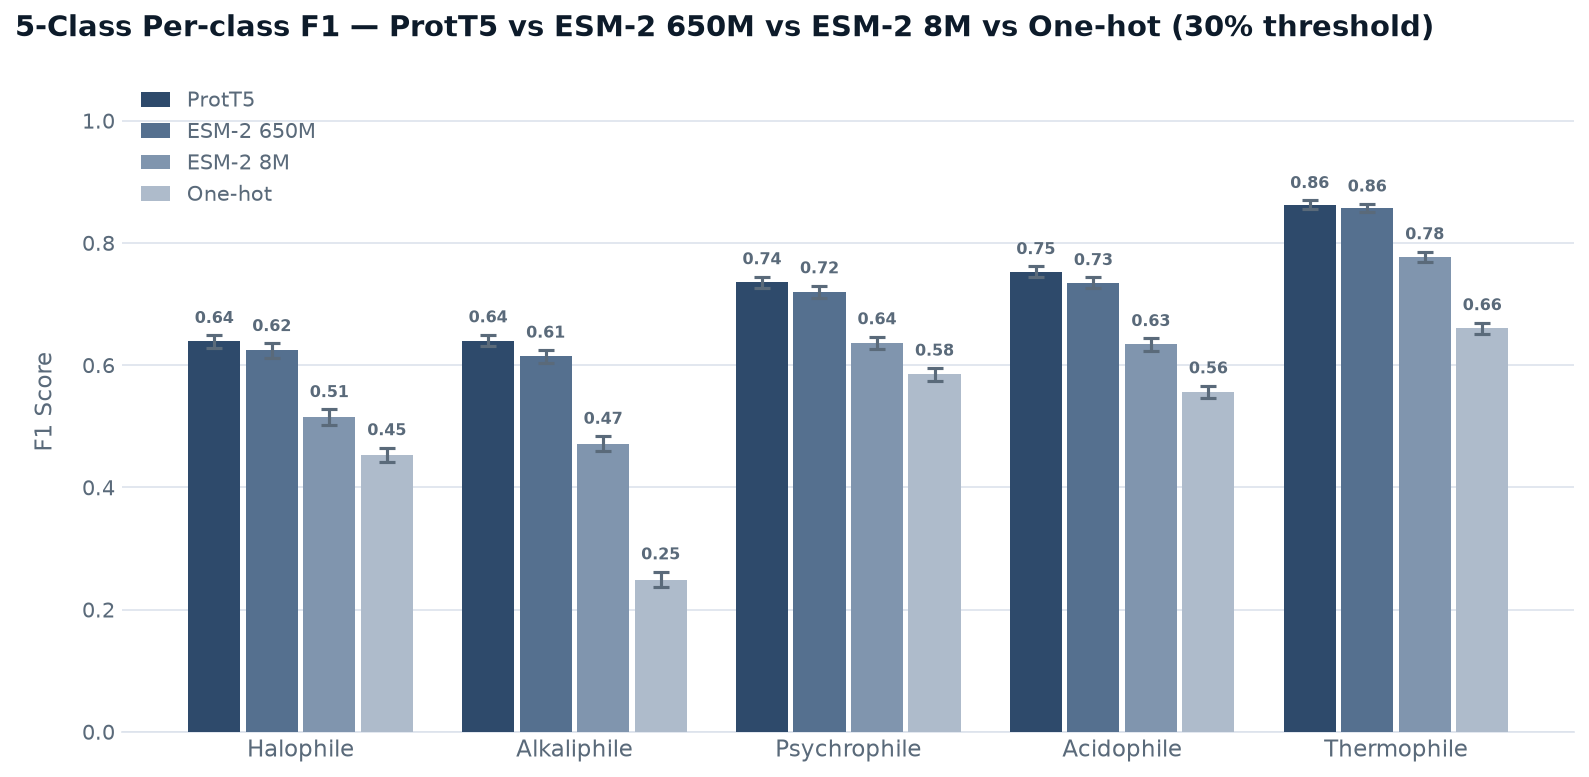
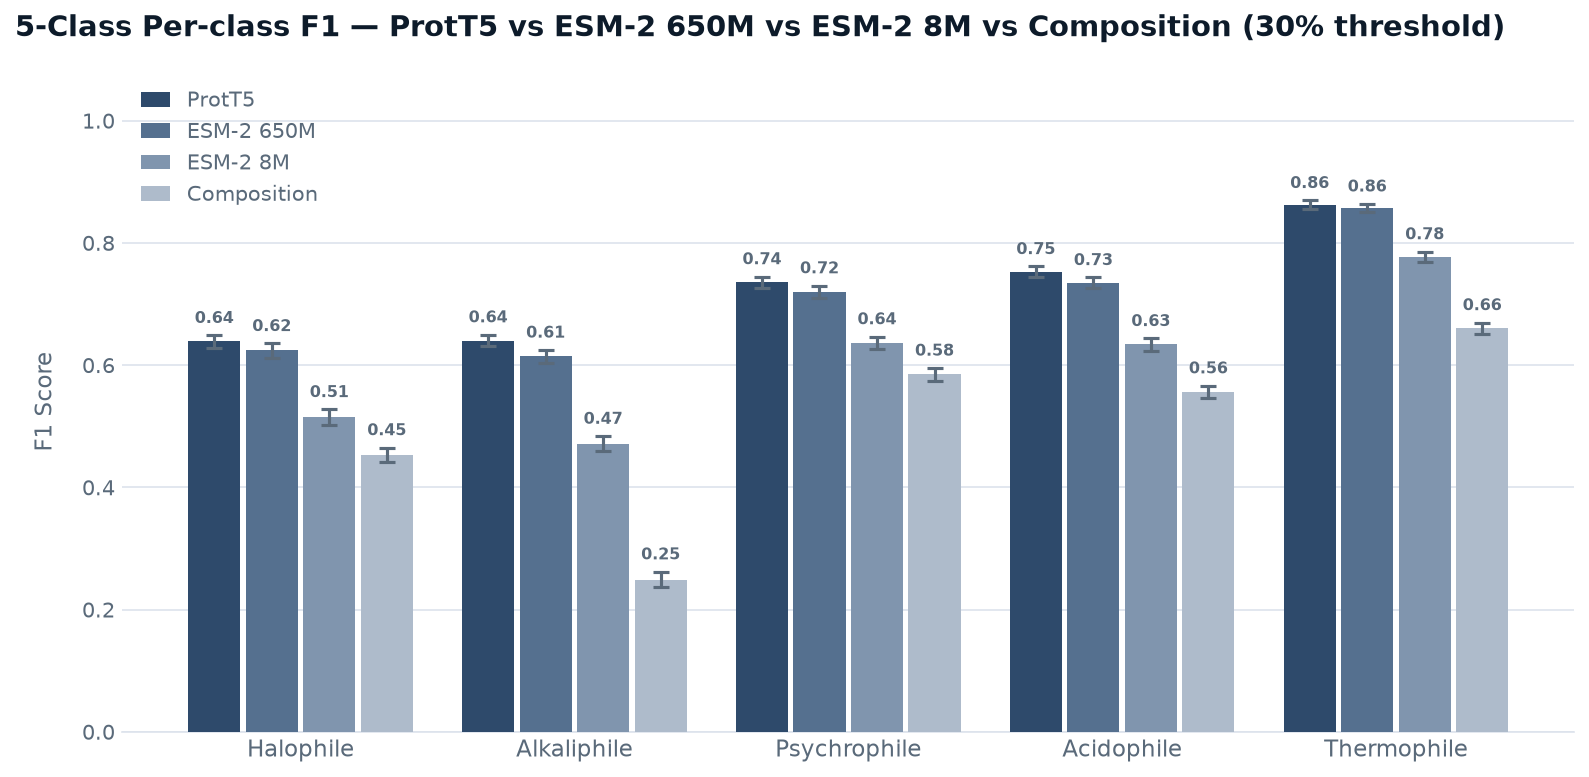
Label the amino acid composition baseline as Composition in all plots

Changed region(s): [[0.6476, 0.0, 0.9559, 0.0618], [0.1233, 0.2471, 0.185, 0.278]]

diff --git a/scripts/plotting/generate_comparison_plots.py b/scripts/plotting/generate_comparison_plots.py
@@ -64,7 +64,7 @@ err_kw  = dict(fmt='none', elinewidth=1.5, capsize=4, capthick=1.5, ecolor=DGRAY
 herr_kw = dict(fmt='none', elinewidth=1.4, capsize=4, capthick=1.4, ecolor=DGRAY, zorder=5)
 
 MODELS = [('ProtT5', prot, EMBEDDER_COLORS['prott5']), ('ESM-2 650M', esm2, EMBEDDER_COLORS['esm2_650m']),
-          ('ESM-2 8M', esm2_8m, EMBEDDER_COLORS['esm2_8m']), ('One-hot', onehot, EMBEDDER_COLORS['onehot'])]
+          ('ESM-2 8M', esm2_8m, EMBEDDER_COLORS['esm2_8m']), ('Composition', onehot, EMBEDDER_COLORS['onehot'])]
 W = 0.19
 OFFSETS = [(i - 1.5) * (W + 0.02) for i in range(len(MODELS))]
 
@@ -118,7 +118,7 @@ for ax, metric, ylabel in [(ax1, 'accuracy', 'Accuracy'),
 handles, labels = ax1.get_legend_handles_labels()
 fig.legend(handles, labels, loc='lower center', ncol=4, fontsize=10, frameon=False,
            labelcolor=DGRAY, handlelength=1.4, bbox_to_anchor=(0.5, -0.04))
-fig.suptitle('ProtT5 vs ESM-2 650M vs ESM-2 8M vs One-hot — Overview Comparison',
+fig.suptitle('ProtT5 vs ESM-2 650M vs ESM-2 8M vs Composition — Overview Comparison',
              fontsize=15, fontweight='bold', color=NAVY, x=0.025, ha='left', y=0.97)
 fig.subplots_adjust(top=0.88, bottom=0.13, left=0.06, right=0.98, wspace=0.28)
 fig.savefig('results/plots/overview_comparison.png', dpi=150, bbox_inches='tight',
@@ -148,7 +148,7 @@ ax.set_ylim(0, 1.08); ax.set_yticks([0, 0.2, 0.4, 0.6, 0.8, 1.0])
 ax.yaxis.set_tick_params(labelcolor=DGRAY, labelsize=10)
 ax.set_ylabel('F1 Score', fontsize=11, color=DGRAY, labelpad=12)
 ax.legend(fontsize=10, frameon=False, loc='upper left', labelcolor=DGRAY, handlelength=1.4)
-fig.suptitle('5-Class Per-class F1 — ProtT5 vs ESM-2 650M vs ESM-2 8M vs One-hot (30% threshold)',
+fig.suptitle('5-Class Per-class F1 — ProtT5 vs ESM-2 650M vs ESM-2 8M vs Composition (30% threshold)',
              fontsize=14, fontweight='bold', color=NAVY, x=0.025, ha='left', y=0.97)
 fig.subplots_adjust(top=0.90, bottom=0.10, left=0.09, right=0.97)
 fig.savefig('results/plots/split1_comparison.png', dpi=150, bbox_inches='tight',
@@ -178,7 +178,7 @@ ax.set_xlim(0, 1.18); ax.set_xticks([0, 0.2, 0.4, 0.6, 0.8, 1.0])
 ax.xaxis.set_tick_params(labelcolor=DGRAY, labelsize=10)
 ax.set_xlabel('F1 Score', fontsize=11, color=DGRAY, labelpad=10)
 ax.legend(fontsize=10, frameon=False, loc='lower right', labelcolor=DGRAY, handlelength=1.4)
-fig.suptitle('12-Class Per-class F1 — ProtT5 vs ESM-2 650M vs ESM-2 8M vs One-hot (30% threshold)',
+fig.suptitle('12-Class Per-class F1 — ProtT5 vs ESM-2 650M vs ESM-2 8M vs Composition (30% threshold)',
              fontsize=14, fontweight='bold', color=NAVY, x=0.025, ha='left', y=0.995)
 fig.subplots_adjust(top=0.96, bottom=0.07, left=0.20, right=0.97)
 fig.savefig('results/plots/split2_comparison.png', dpi=150, bbox_inches='tight',
@@ -203,7 +203,7 @@ ax.set_ylim(0, 1.10); ax.set_yticks([0, 0.2, 0.4, 0.6, 0.8, 1.0])
 ax.yaxis.set_tick_params(labelcolor=DGRAY, labelsize=10)
 ax.set_ylabel('F1 Score', fontsize=11, color=DGRAY, labelpad=12)
 ax.legend(fontsize=10, frameon=False, loc='upper left', labelcolor=DGRAY, handlelength=1.4)
-fig.suptitle('12-Class Per-class F1 — ProtT5 vs ESM-2 650M vs ESM-2 8M vs One-hot (30% threshold)',
+fig.suptitle('12-Class Per-class F1 — ProtT5 vs ESM-2 650M vs ESM-2 8M vs Composition (30% threshold)',
              fontsize=14, fontweight='bold', color=NAVY, x=0.025, ha='left', y=0.97)
 fig.subplots_adjust(top=0.90, bottom=0.15, left=0.06, right=0.98)
 fig.savefig('results/plots/split2_comparison_vertical.png', dpi=150, bbox_inches='tight',

diff --git a/scripts/plotting/plot_binary_extremophile_results.py b/scripts/plotting/plot_binary_extremophile_results.py
@@ -14,13 +14,13 @@ OUT_DIR = Path("results/plots")
 OUT_DIR.mkdir(parents=True, exist_ok=True)
 
 RESULT_FILES = {
-    "One-Hot":  Path("results/training_results/binary_onehot_clustered_result.json"),
+    "Composition":  Path("results/training_results/binary_onehot_clustered_result.json"),
     "ProtT5":   Path("results/training_results/binary_prott5_clustered_result.json"),
     "ESM2":     Path("results/training_results/binary_esm2_650m_clustered_result.json"),
 }
 
 EMBEDDER_COLORS = {
-    "One-Hot": EMBEDDER_COLORS["onehot"],
+    "Composition": EMBEDDER_COLORS["onehot"],
     "ProtT5":  EMBEDDER_COLORS["prott5"],
     "ESM2":    EMBEDDER_COLORS["esm2_650m"],
 }
@@ -90,7 +90,8 @@ def plot_single_metrics(result, embedder_name):
             transform=ax.transAxes, ha="right", va="top", fontsize=9, color="#888")
 
     plt.tight_layout()
-    slug = embedder_name.lower().replace("-", "").replace(" ", "_")
+    # File names keep "onehot" so they match the result files
+    slug = "onehot" if embedder_name == "Composition" else embedder_name.lower().replace("-", "").replace(" ", "_")
     fname = f"binary_extremophile_metrics_{slug}_clustered.png"
     out = OUT_DIR / fname
     plt.savefig(out, bbox_inches="tight")
@@ -117,7 +118,7 @@ def plot_single_f1(result, embedder_name):
     ax.set_title(f"Binary Classifier — F1 per Class & Accuracy ({embedder_name})", fontsize=13)
     ax.axhline(1.0, color="grey", linewidth=0.5, linestyle="--", alpha=0.5)
     plt.tight_layout()
-    slug  = embedder_name.lower().replace("-", "").replace(" ", "_")
+    slug  = "onehot" if embedder_name == "Composition" else embedder_name.lower().replace("-", "").replace(" ", "_")
     fname = f"binary_extremophile_f1_{slug}_clustered.png"
     out = OUT_DIR / fname
     plt.savefig(out, bbox_inches="tight")

diff --git a/scripts/plotting/plot_fiveclass_domain_bias.py b/scripts/plotting/plot_fiveclass_domain_bias.py
@@ -84,7 +84,7 @@ if __name__ == "__main__":
     fig, ax = plt.subplots(figsize=(11, 4.5))
     x = np.arange(len(SUBTYPES))
     for offset, res, color, label in [(-0.2, r, EMBEDDER_COLORS["prott5"], "ProtT5"),
-                                      (0.2, onehot, EMBEDDER_COLORS["onehot"], "Amino acid composition")]:
+                                      (0.2, onehot, EMBEDDER_COLORS["onehot"], "Composition")]:
         values = [res["accuracy_by_subtype_and_domain"][key]["accuracy"] for key, _ in SUBTYPES]
         ax.bar(x + offset, values, 0.38, color=color, edgecolor="white", label=label)
         for xi, v in zip(x, values):

diff --git a/scripts/plotting/plot_binary_domain_bias.py b/scripts/plotting/plot_binary_domain_bias.py
@@ -17,7 +17,7 @@ OUT    = Path("results/plots/binary_domain_bias_clustered.png")
 ALL_COLOR      = MAIN
 BACTERIA_COLOR = SECONDARY
 ARCHAEA_COLOR  = MAIN
-EMBEDDERS = {"prott5": "ProtT5", "esm2_650m": "ESM2 650M", "esm2_8m": "ESM2 8M", "onehot": "One-hot"}
+EMBEDDERS = {"prott5": "ProtT5", "esm2_650m": "ESM2 650M", "esm2_8m": "ESM2 8M", "onehot": "Composition"}
 CLASSES   = ["acidophile", "alkaliphile", "halophile", "psychrophile", "thermophile"]
 
 plt.rcParams.update({

diff --git a/scripts/plotting/plot_embedder_comparison.py b/scripts/plotting/plot_embedder_comparison.py
@@ -15,7 +15,7 @@ OUT_DIR = Path("results/plots")
 OUT_DIR.mkdir(parents=True, exist_ok=True)
 
 EMBEDDERS = {
-    "onehot":    ("One-hot (20)",        EMBEDDER_COLORS["onehot"]),
+    "onehot":    ("Composition (20)",    EMBEDDER_COLORS["onehot"]),
     "esm2_8m":   ("ESM2 8M (320)",       EMBEDDER_COLORS["esm2_8m"]),
     "esm2_650m": ("ESM2 650M (1280)",    EMBEDDER_COLORS["esm2_650m"]),
     "prott5":    ("ProtT5 (1024)",       EMBEDDER_COLORS["prott5"]),
